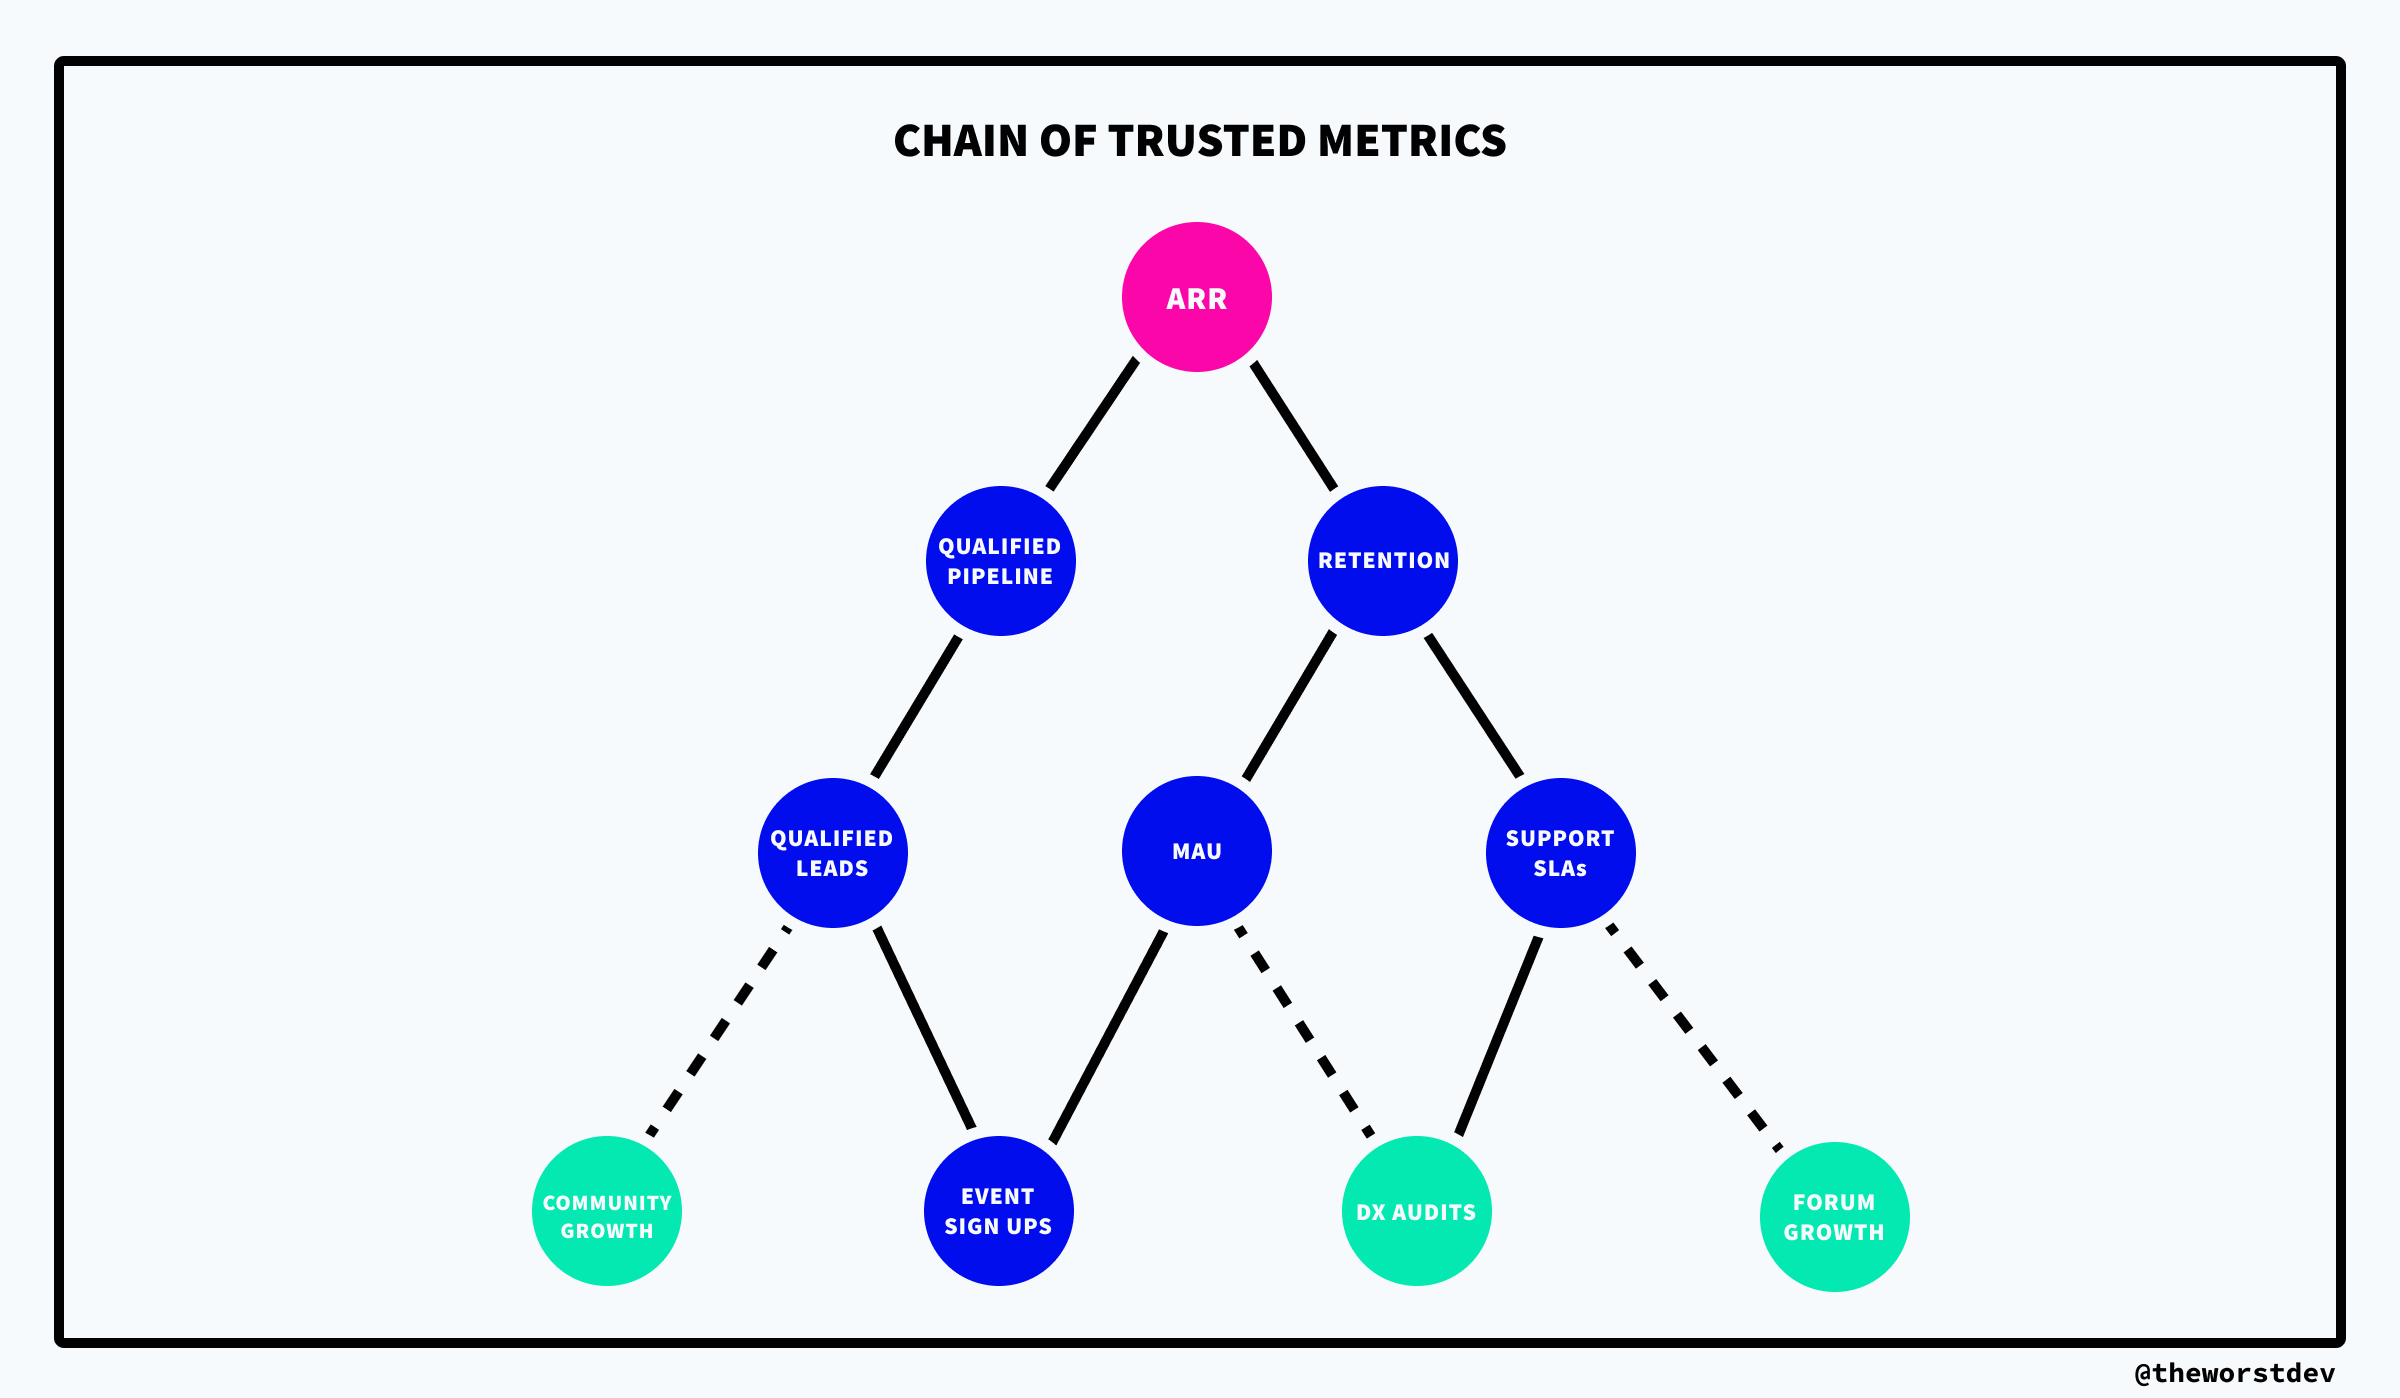
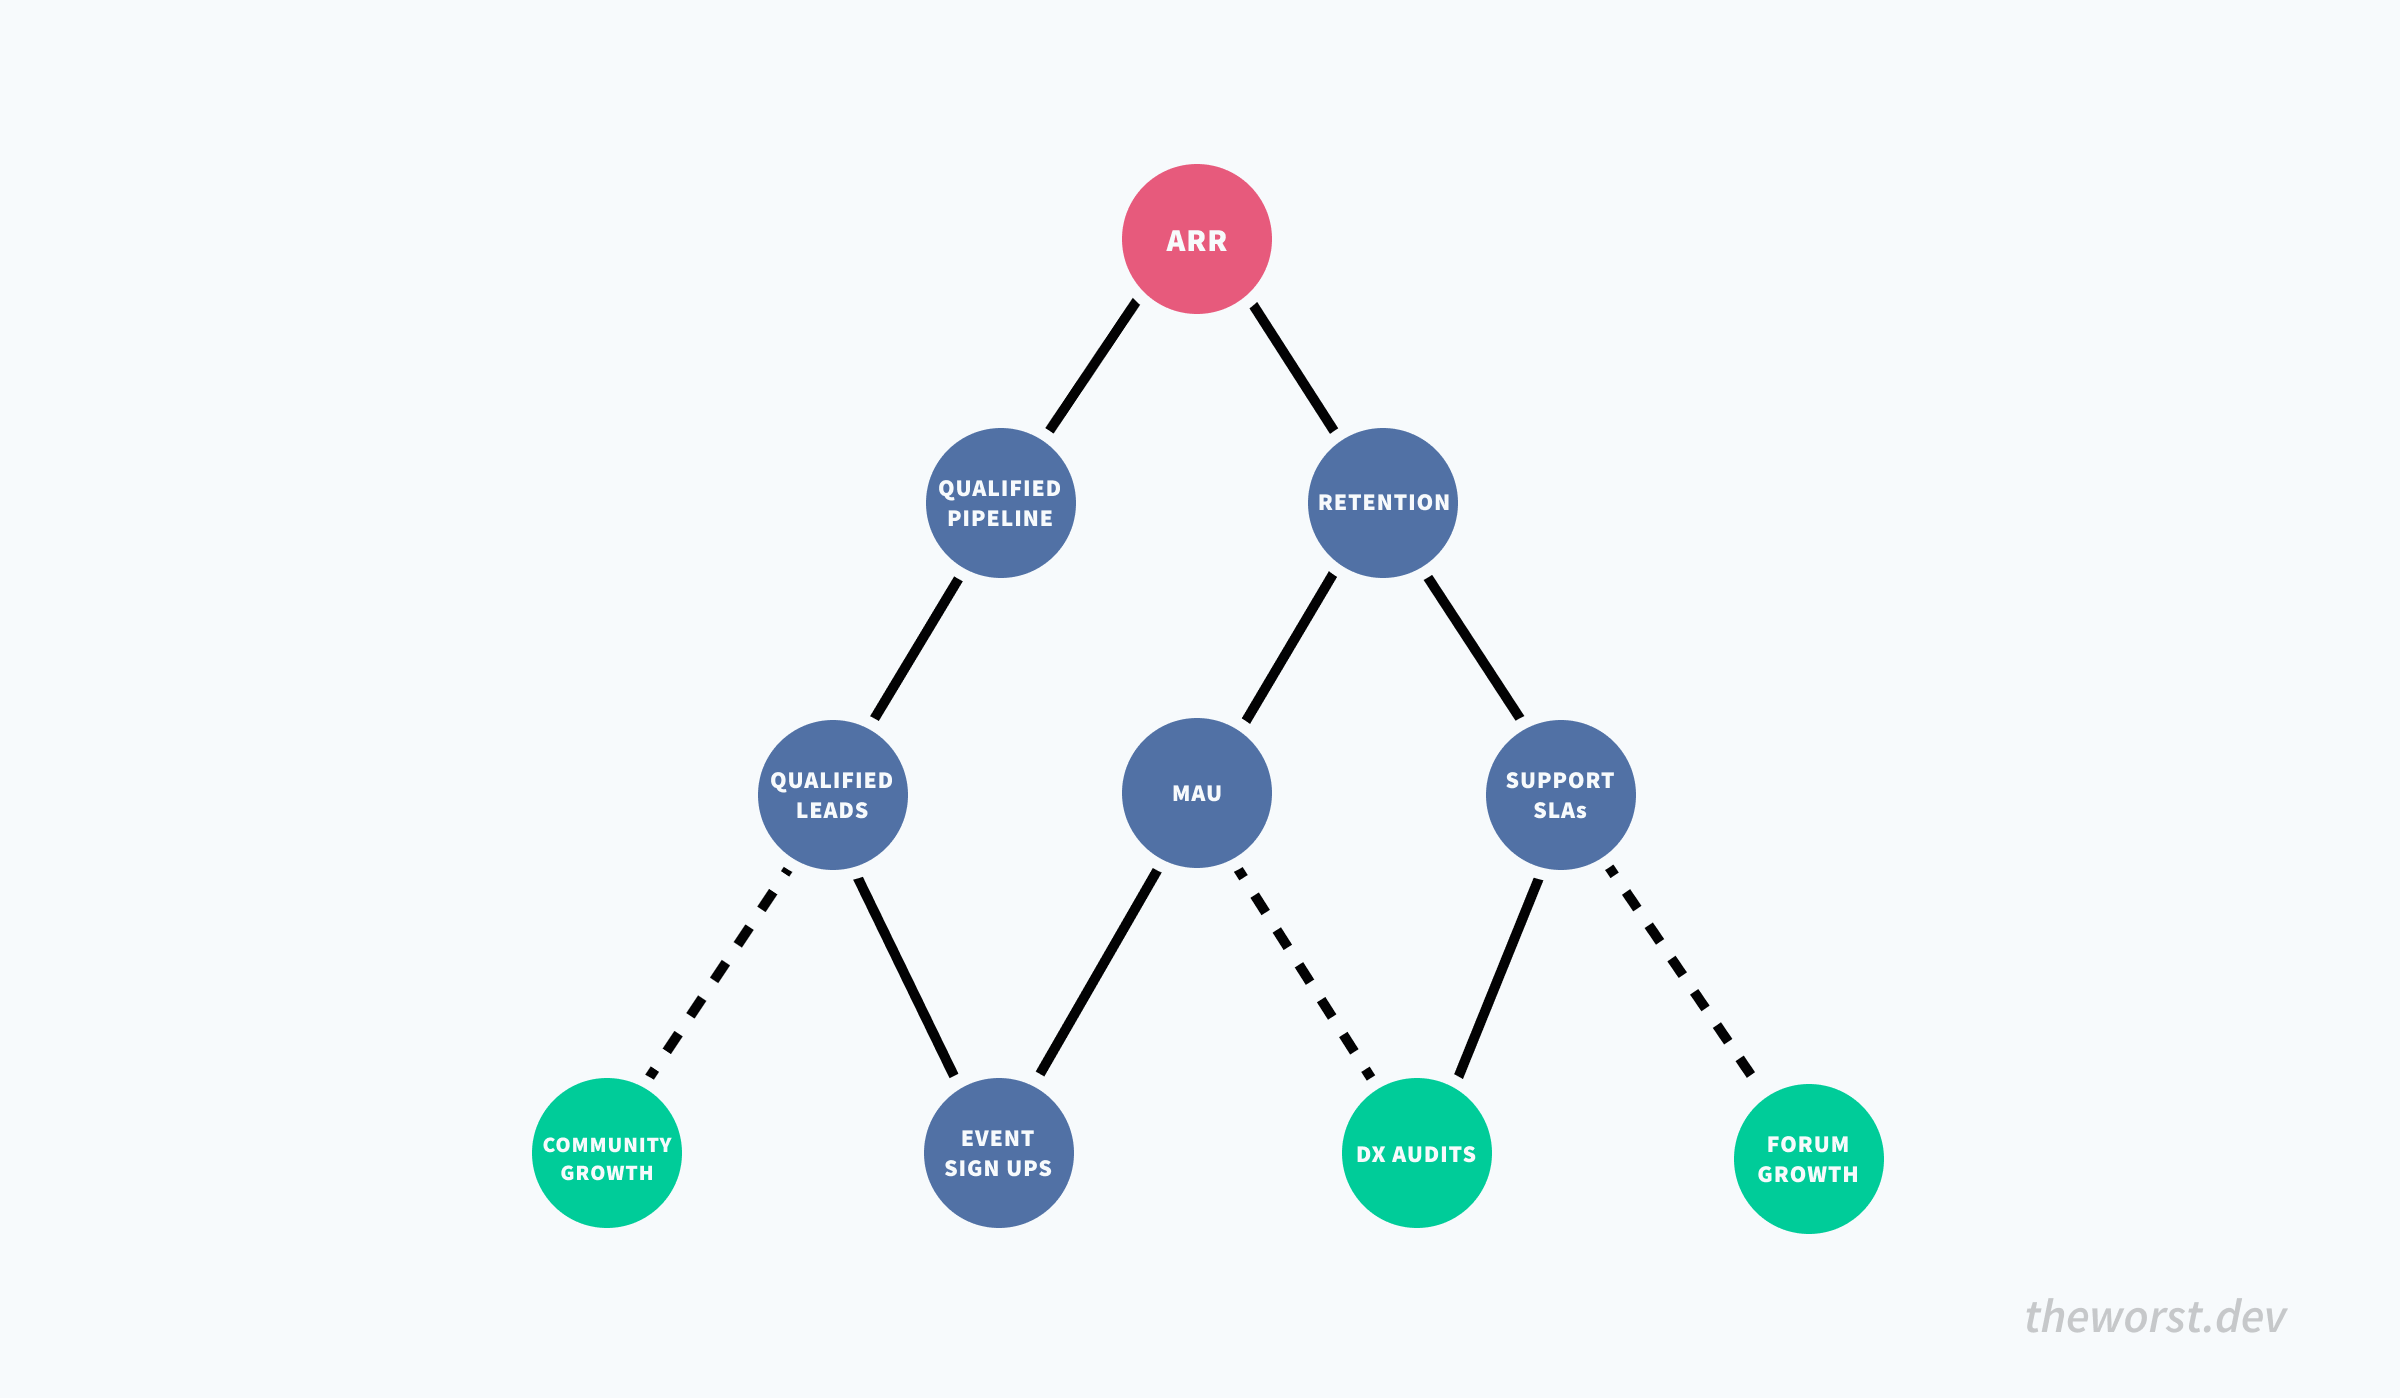
fix illustration color themes

diff --git a/website/styles/globals.css b/website/styles/globals.css
@@ -147,8 +147,8 @@ hr {
 
 .app {
   /* --background: #faf4f8; */
-  --background: #ffffff;
-  --card-background: white;
+  --background: #f7fafc;
+  --card-background: #f7fafc;
   --link: #f272ad;
   --text-color: rgba(0, 0, 0, 0.87);
   --text-shadow-color: rgba(128, 6, 63, 0.2);
@@ -166,7 +166,6 @@ hr {
 }
 
 .app.dark {
-  /* --background: #12152f; */
   --background: #020203;
   --card-background: #020203;
   --text-color: #f7fafc;
